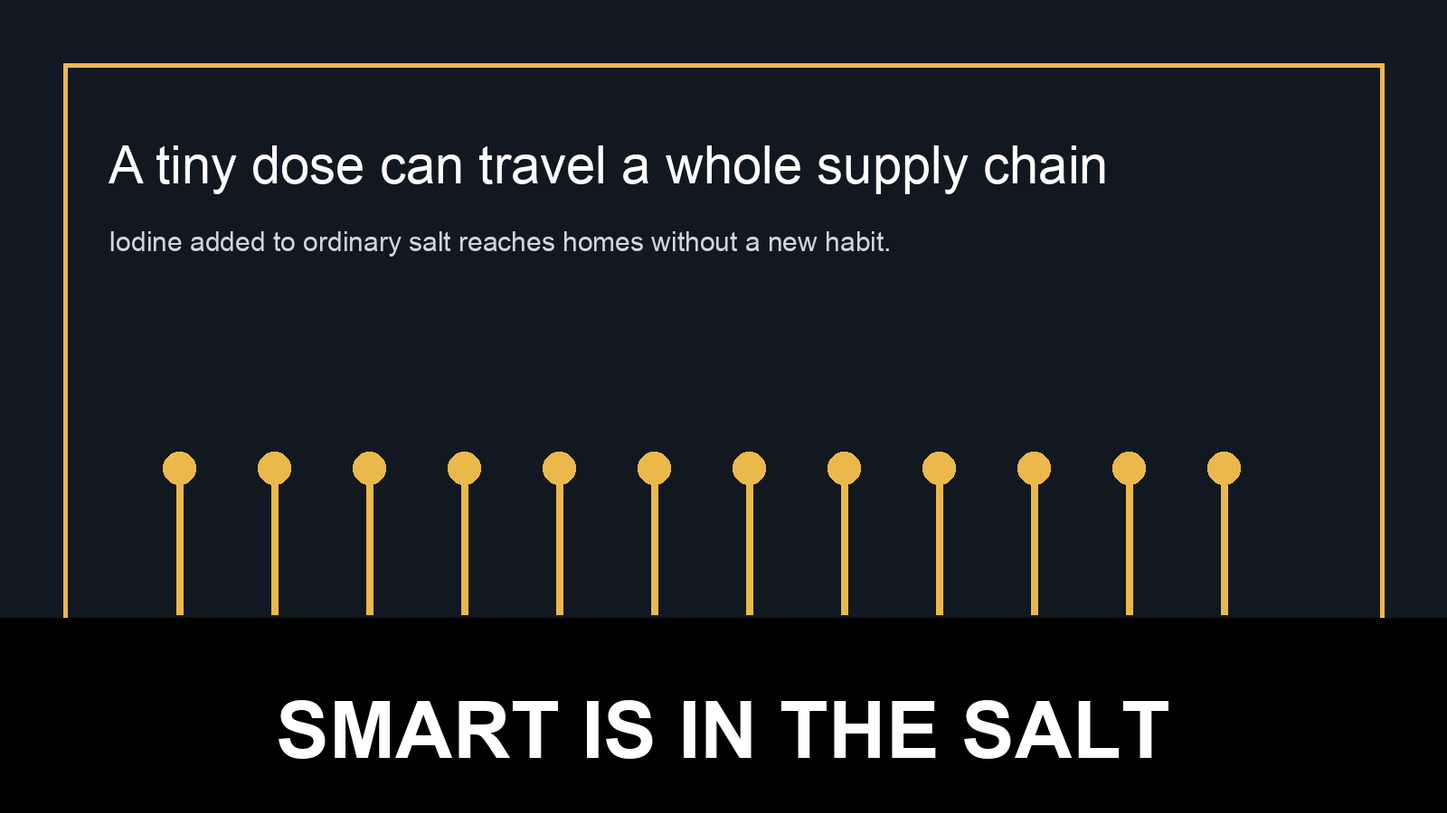
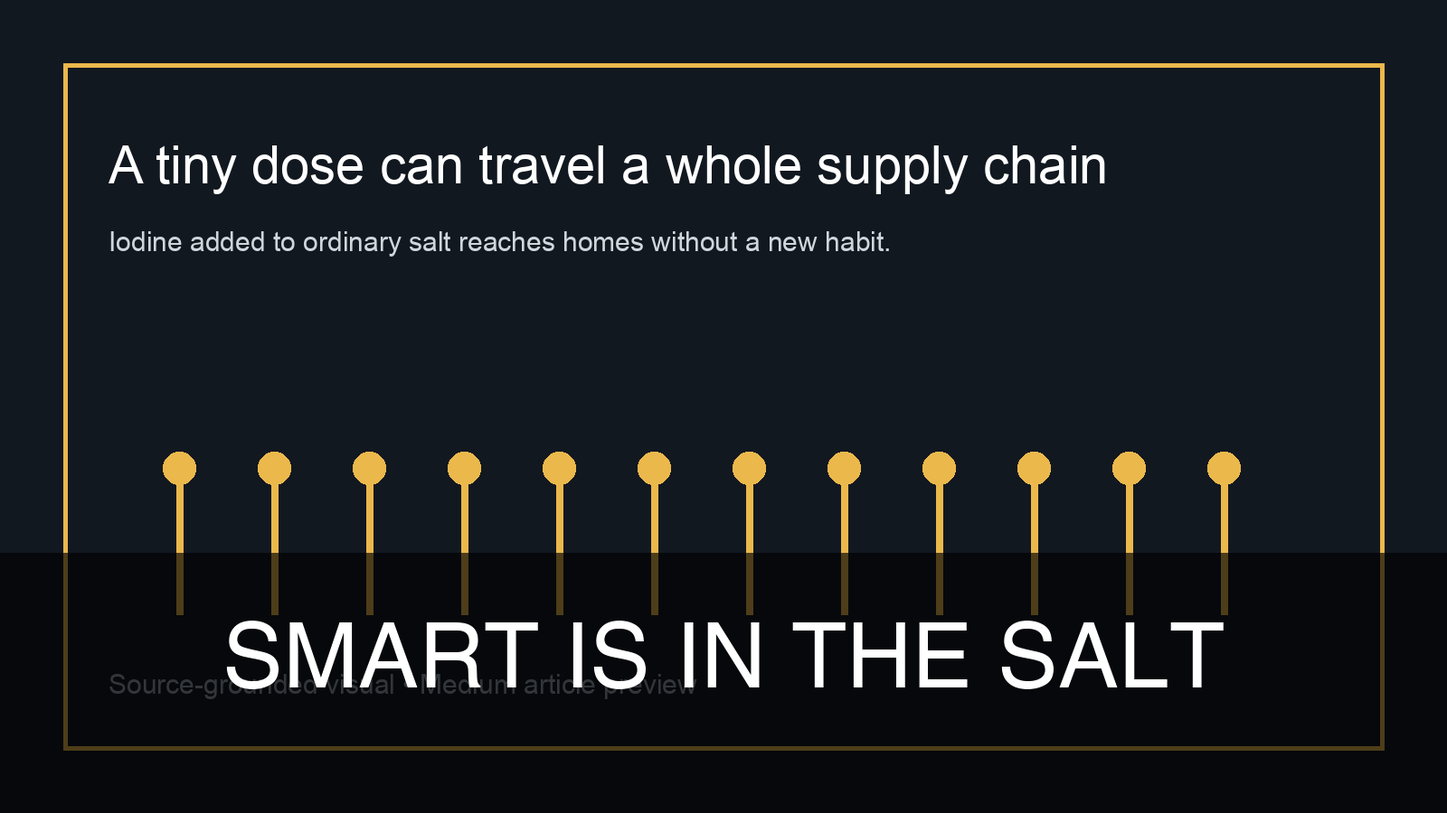
fix: complete 7-article audit fix wave — YouTube frames, wired hero overlays, real lists, inline citations

Changed region(s): [[0.0312, 0.6844, 0.9688, 0.9333], [0.8438, 0.6844, 0.875, 0.7467]]

diff --git a/nextjs/public/medium/youtube-europe-fusion-reactor-bpuakw1dyek/index.html b/nextjs/public/medium/youtube-europe-fusion-reactor-bpuakw1dyek/index.html
@@ -5,9 +5,9 @@
   <meta name="viewport" content="width=device-width, initial-scale=1">
   <meta name="robots" content="index,follow">
   <meta name="article:status" content="preview">
[2 lines of base64/hex data omitted]
   <link rel="canonical" href="https://www.maxpetrusenko.com/medium/youtube-europe-fusion-reactor-bpuakw1dyek/">
-  <title>The Oil Crisis That Never Arrived</title>
+  <title>Europe’s Fusion Bet Is Finally Becoming an Engineering Problem</title>
   <style>
     :root {
       color-scheme: light;
@@ -79,47 +79,86 @@
 </head>
 <body>
   <main>
-<h1>The Oil Crisis That Never Arrived</h1>
-<p><em>The world prepared for a historic supply shock. The missing piece was sitting inside the biggest oil-importing country on Earth.</em></p>
-<blockquote><p>A viral video says China secretly cut its oil imports in half and single-handedly saved the world from an Iran-war oil shock. The mechanism is real; the tidy hero story is not. Here&#39;s what the primary sources actually support, what stays unproven, and why the biggest buyer&#39;s quiet moves matter more than any headline.</p></blockquote>
-<figure><img src="/medium/youtube-europe-fusion-reactor-bpuakw1dyek/assets/hero-overlay.jpg" alt="Oil tanker ACADIAN entering St. John&#39;s Harbor, Newfoundland. Photo: Wikimedia Commons, CC BY-SA 4.0."></figure>
-<p>At the start of the 2025 fighting around Iran, everyone had the same nightmare queued up. Close the Strait of Hormuz, and the world runs out of oil. Flights grounded. Cities dark. Gas tripling if you could buy any at all. The math looked airtight, and the <a href="https://www.eia.gov/todayinenergy/detail.php?id=61344" target="_blank" rel="noopener noreferrer">EIA&#39;s chokepoint analysis</a> explains why a single narrow waterway can scare an entire planet: a huge share of seaborne crude passes through it, so a credible threat to close it is a credible threat to everyone.</p>
-<p>The feared collapse did not arrive on that schedule.</p>
-<p>That&#39;s the part worth sitting with. The forecasts weren&#39;t stupid. <a href="https://www.eia.gov/todayinenergy/detail.php?id=61344" target="_blank" rel="noopener noreferrer">EIA&#39;s chokepoint analysis</a> both laid out how ugly a real closure would get, and the arithmetic held up. The world just didn&#39;t behave like the arithmetic. Prices twitched and settled. Airlines rerouted. Governments cracked open their emergency plans and the lights stayed on. A near miss still carries information, and dismissing it is how you sleepwalk into the next crisis.</p>
-<h2>The claim that went viral</h2>
-<p>Here&#39;s where the story gets a protagonist. A popular explainer video argued that one country quietly did the saving: China. The pitch is clean and satisfying — Beijing cut its oil imports roughly in half, absorbed the shock in secret, and rescued the global economy, including its chief rival, the United States, without ever saying a word about it.</p>
-<p>It&#39;s a great story. It might even be partly true. But &quot;China saved the world&quot; is a conclusion, not a receipt, and the primary sources I can actually stand on don&#39;t hand you that receipt. Nobody publishes a signed ledger of a secret. So let&#39;s separate the part you can verify from the part you have to take on faith.</p>
-<p>What&#39;s verifiable is the <em>shape</em> of the thing. China is the world&#39;s largest crude importer and, per the <a href="https://www.eia.gov/international/analysis/country/CHN" target="_blank" rel="noopener noreferrer">U.S. EIA&#39;s China profile</a>, it buys most of the oil it burns from abroad. A country that big, buying that much, doesn&#39;t need to announce anything to move a market. If it takes less, everyone else is fighting over fewer marginal cargoes. That is market mechanics. It is what happens when the biggest customer in the store puts something back on the shelf.</p>
-<figure><img src="/medium/youtube-europe-fusion-reactor-bpuakw1dyek/assets/body-frame-1.jpg" alt="A news explainer map shows the Strait of Hormuz and alternative oil infrastructure."></figure>
-<h2>Why a quiet buyer moves a loud market</h2>
-<p>Oil trades as one connected pool, so slack anywhere shows up as relief everywhere. When a big buyer eases off — using inventories, switching grades, delaying a cargo — it doesn&#39;t create new barrels. It removes bidders. <a href="https://www.eia.gov/international/analysis/country/CHN" target="_blank" rel="noopener noreferrer">the EIA&#39;s China profile</a> lays out why Beijing keeps the machinery to do exactly this: commercial stockpiles, state-linked trading muscle, long supplier relationships, and refineries built to swallow different crude grades. In a calm month that&#39;s expensive insurance. During a scare, it&#39;s a shock absorber nobody can photograph.</p>
-<p>This is the core of it. The dramatic intervention gets a press release. The quiet one gets a smaller import order and a tanker pointed somewhere else. The absence of a bidding war doesn&#39;t trend. So the most consequential move in the whole episode is also the hardest to see — which is exactly why it&#39;s so easy to narrate into a fairy tale.</p>
-<p>Somewhere right now, an analyst is squinting at satellite photos of steel domes in northern China, watching the lids on oil silos rise and fall to guess how much crude a secretive government is sitting on. That&#39;s a real job. It exists because the size of China&#39;s reserve is a state secret, and the best outsiders can do is count roofs from orbit. When your best data source is the shadow of a tank lid, you should hold your conclusions loosely. Anyone quoting you a precise &quot;barrels China saved&quot; number is selling confidence they don&#39;t have.</p>
-<h2>The part where a rival accidentally helps you</h2>
-<p>The satisfying irony writes itself: China and the United States are strategic rivals, and China&#39;s restraint would have cushioned the American economy too. But you don&#39;t need a conspiracy or a favor for that. A country protecting its own factories and refineries stabilizes a market its competitor happens to share. Interdependence mostly works through this unglamorous plumbing — inventories, contracts, substitution, timing — not through grand gestures.</p>
-<p>The U.S. isn&#39;t defenseless in this either. It keeps its own buffer in the <a href="https://www.energy.gov/ceser/strategic-petroleum-reserve" target="_blank" rel="noopener noreferrer">Strategic Petroleum Reserve</a>, built for precisely this class of emergency, and other big economies hold stocks of their own. Coordinated releases and reserve draws are part of how governments manage a disruption. The early forecasts flattened all of that into one scary headline number, measuring the hole at the chokepoint without modeling the dozen boring decisions that follow it: who draws down, who reroutes, who blends, who decides this month&#39;s cargo can wait.</p>
-<h2>Where the hero story breaks</h2>
-<p>If you want the version that survives scrutiny, it&#39;s this: the system had more slack than the first-day panic could see, and China — as the largest single buyer — was one unusually large part of that slack. That&#39;s a real claim. &quot;China saved the world&quot; is that claim dressed up as certainty.</p>
-<p>Three things keep the cape from fitting.</p>
-<p>First, some of the room to maneuver runs through sanctioned and discounted supply. The <a href="https://www.eia.gov/international/analysis/country/IRAN" target="_blank" rel="noopener noreferrer">EIA&#39;s Iran profile</a> describes a shadow market that is, by design, hard to measure. You can&#39;t cleanly separate state direction from a trader chasing a discount, and you certainly can&#39;t audit it to the barrel.</p>
-<p>Second, resilience has a distribution problem. A manageable global average price can hide real pain — poorer importers, truckers, airlines, and households hit by local spikes and shortages. &quot;The oil shock didn&#39;t happen&quot; is too generous if it means nobody got hurt. Plenty of people did.</p>
-<p>Third, buffers buy time, and time runs out. Spare capacity is finite. If the fighting drags on, terminals fail, or insurers walk away from a route, the slack runs out. A model that only predicts the opening deficit will scream collapse too early. A model that assumes China will always cushion the market will get you killed the one time it doesn&#39;t.</p>
-<figure><img src="/medium/youtube-europe-fusion-reactor-bpuakw1dyek/assets/body-frame-2.jpg" alt="An explainer board shows pipelines and stockpiles offsetting a supply disruption."></figure>
-<h2>What to actually watch next time</h2>
-<p>When the next energy panic goes viral, ignore the first scary number and track four boring ones instead:</p>
+<h1>Europe’s Fusion Bet Is Finally Becoming an Engineering Problem</h1>
+<p><em>The dream of commercial fusion has survived decades of impossible promises. Europe’s new machine matters because it shifts the question from whether a star can be made on Earth to whether that star can be made repeatably, maintained, and connected to a grid.</em></p>
+<blockquote><p>Commercial fusion requires more than a plasma hotter than the Sun. It needs stable confinement, heat-resistant materials, tritium breeding, remote maintenance, reliable magnets, and an economically useful power cycle. Europe’s strategy combines stellarator research with high-temperature superconducting magnets, aiming to make a reactor easier to operate continuously rather than merely impressive for a short experiment.</p></blockquote>
+<figure><img src="/medium/youtube-europe-fusion-reactor-bpuakw1dyek/images/hero-overlay.jpg" alt="Fusion power — frame from the source video"></figure>
+<p>Fusion has trained the public to distrust its own headlines. Every announcement sounds like a finish line, then the finish line moves. A reactor reaches a temperature record, a plasma lasts longer, a magnet becomes stronger, and the headline arrives before the engineering has had time to answer the boring questions: Can the machine survive? Can it be serviced? Can it produce electricity outside a laboratory demonstration?</p>
+<p>Europe’s answer is being assembled around the tokamak, the doughnut-shaped reactor used by ITER and the private company Proxima Fusion. The physics is familiar. The industrial path is the part that could change.</p>
+<h2>The machine is trying to hold a star still</h2>
+<p>Inside a fusion reactor, hydrogen isotopes are heated until their electrons separate from their nuclei. The resulting plasma must remain hot and dense long enough for atomic nuclei to fuse. Fusion releases energy because the products weigh slightly less than the fuel, and that missing mass becomes energy.</p>
+<p>On Earth, the simplest comparison is the Sun, although the comparison can mislead. The Sun uses immense gravity to confine a relatively cool plasma. A terrestrial reactor has to replace gravity with magnetic fields and operate at temperatures of roughly 150 million degrees Celsius. Any material touching the plasma would fail immediately.</p>
+<p>That constraint creates the tokamak’s signature shape. Magnets wrap around the chamber and force the plasma into a torus. The design has produced the field’s strongest results, including the record 59 megajoules of fusion energy from the Joint European Torus in 2022, according to <a href="https://euro-fusion.org/news/2022/jet-tokamak-sets-new-fusion-energy-record/" target="_blank" rel="noopener noreferrer">EUROfusion</a>. The record was important, but it lasted only about five seconds.</p>
+<p>Five seconds can prove physics. A power station needs years of maintenance schedules.</p>
+<figure><img src="/medium/youtube-europe-fusion-reactor-bpuakw1dyek/images/body-frame-1.jpg" alt="Stellarator magnetic coils in a technical frame from the source video"></figure>
+<h2>Europe’s engineering alternative</h2>
+<p>The stellarator takes a different route. Its magnetic coils twist through three dimensions, creating a field that can confine plasma without relying on a large current flowing inside the plasma itself. That difference sounds like a detail until a reactor experiences a disruption.</p>
+<p>Tokamaks can suffer sudden losses of confinement. A disruption dumps energy into the chamber walls and can damage components. Stellarators are harder to design and manufacture because their coils are complex, but they are naturally suited to steady-state operation.</p>
+<p>Germany’s Wendelstein 7-X is the most important modern demonstration. Operated by the Max Planck Institute for Plasma Physics, it has tested whether a stellarator can maintain the long, controlled plasma pulses a commercial plant would need. In 2023, W7-X set a world record for fusion product in a long-duration discharge, sustaining high-performance plasma for 8 minutes with 1.3 gigajoules of energy turnover.</p>
+<p>The lesson is less cinematic than “fusion is solved,” which is exactly why it matters. W7-X is a research machine; electricity generation remains a future engineering step. It demonstrates that a design once dismissed as too complicated can behave like a serious power-plant candidate.</p>
+<h2>Why the impossible part is not the temperature</h2>
+<p>The public fixates on heat. Engineers worry about what the neutrons do afterward.</p>
+<p>Deuterium-tritium fusion produces fast neutrons that leave the magnetic bottle and strike the surrounding blanket. Those neutrons damage metals, activate components, and carry the energy that a future plant must convert into heat. The blanket also needs to breed new tritium from lithium because tritium is scarce in nature.</p>
+<p>That creates a chain of dependencies:</p>
 <ol>
-<li><strong>Inventory days, not inventory headlines.</strong> How many days of the <em>relevant</em> crude and refined product actually exist, and where do those barrels physically sit? The <a href="https://www.energy.gov/ceser/strategic-petroleum-reserve" target="_blank" rel="noopener noreferrer">DOE Strategic Petroleum Reserve</a> and the EIA&#39;s country data matter more than the loudest tweet.</li>
-<li><strong>Substitute routes and grades.</strong> A barrel isn&#39;t interchangeable in the abstract. Pipelines, refinery configuration, shipping insurance, and sulfur content decide whether &quot;replacement&quot; oil actually runs.</li>
-<li><strong>The biggest buyer&#39;s behavior.</strong> A small shift in Chinese import timing, sketched out in the <a href="https://www.eia.gov/international/analysis/country/CHN" target="_blank" rel="noopener noreferrer">EIA China profile</a>, can move more than a loud promise from a producer.</li>
-<li><strong>Duration.</strong> A two-week scare and a six-month blockade are different animals. Buffers buy time; they don&#39;t repeal geography.</li>
+<li>The plasma must remain stable.</li>
+<li>The first wall must tolerate neutron damage and heat flux.</li>
+<li>The blanket must remove heat and breed tritium.</li>
+<li>Robots must replace activated components.</li>
+<li>The plant must turn heat into electricity with acceptable losses.</li>
 </ol>
-<p>The lesson isn&#39;t that geopolitics went soft. It&#39;s that resilience usually arrives through moves too dull to make the edit: a refinery postpones a purchase, a state trader releases stock, a ship changes heading, a government swallows an awkward cargo. The story looked like it was about a narrow waterway. It was really about who had room to move — and how little of that room ever makes it into the narration.</p>
-<p>China had room. Whether it chose to spend it to save you, to prove a point, or just to protect its own factories, nobody outside a few rooms in Beijing can tell you with confidence. So don&#39;t let anyone try.</p>
-<p>For a useful next read, try <a href="https://medium.com/@max.petrusenko/google-wants-the-moment-before-you-search-f862caa01415" target="_blank" rel="noopener noreferrer">Google Wants the Moment Before You Search</a>, another piece about how hidden systems shape visible outcomes.</p>
+<p>A reactor can succeed at the first step and still fail as a power station. The gap between plasma performance and plant performance is where most fusion timelines become fragile.</p>
+<h2>The magnet changes the industrial argument</h2>
+<p>Proxima Fusion’s approach builds on stellarator work at the Max Planck Institute and uses high-temperature superconducting magnets as a route toward a compact power plant. High-temperature superconductors can carry large currents with less cooling infrastructure than older low-temperature systems. The coils leave the reactor difficult to build while offering a path toward manufacturable geometry and a smaller plant.</p>
+<p>The distinction matters. A research stellarator can be built as a one-off scientific instrument. A commercial stellarator must be assembled from repeatable components, opened for maintenance, shielded from radiation, and operated by people who did not design every bolt.</p>
+<p><a href="https://www.proximafusion.com/" target="_blank" rel="noopener noreferrer">Proxima Fusion’s</a> published plans describe a demonstration plant called Alpha and a later commercial concept called Stellaris. Those remain designs and targets rather than operating reactors. The credible claim is narrower: European research has created a technical base from which a private company can attempt a power-plant design. The claim that commercial fusion is already imminent still outruns the evidence.</p>
+<h2>The five-second problem becomes a materials problem</h2>
+<p>The JET record showed that fusion energy can be produced with a deuterium-tritium plasma. <a href="https://www.iter.org/sci/Fusion" target="_blank" rel="noopener noreferrer">ITER</a> is intended to test a much larger gain, with a target of 500 megawatts of fusion power from 50 megawatts of heating power during experimental operation. ITER will not sell electricity to the grid.</p>
+<p>That boundary is easy to miss. Q equals 10 is a physics milestone; a commercial plant requires a business model. A grid plant must provide electricity after magnets, pumps, heating systems, cryogenics, control systems, tritium handling, and maintenance are counted. Its net electric output must survive outages and component replacement.</p>
+<p>This is where optimistic stories usually compress three separate achievements into one:</p>
+<ul>
+<li><strong>Scientific gain:</strong> the plasma releases more fusion energy than the external heating provides.</li>
+<li><strong>Engineering gain:</strong> the machine can protect its materials and systems during repeated operation.</li>
+<li><strong>Commercial gain:</strong> the plant produces dependable electricity at a competitive cost.</li>
+</ul>
+<p>Europe is approaching the second category. That is progress, but it is a different kind of progress from a record plasma.</p>
+<h2>What happens when the machine fails</h2>
+<p>A fusion reactor cannot be judged only by its best pulse. Its maintenance story matters as much as its confinement story.</p>
+<p>The interior will become radioactive. Humans will not enter the vessel after operation. Remote handling systems must remove blankets, divertors, diagnostic equipment, and damaged panels. Each intervention adds downtime, and every awkward component becomes a potential limit on the plant’s capacity factor.</p>
+<p>The stellarator’s promise is therefore double-edged. Avoiding tokamak disruptions could simplify operation, yet the three-dimensional chamber and coil system can make manufacturing and maintenance more demanding. A design that wins on plasma stability may lose on access. A compact magnet may reduce size while increasing radiation and heat loads in critical areas.</p>
+<p>The right test is a service plan with a clock attached. How many days to replace a divertor? How many remote joints can fail before the plant stops? How much tritium inventory is required? Until those answers become measured rather than modeled, the reactor remains an engineering proposal.</p>
+<figure><img src="/medium/youtube-europe-fusion-reactor-bpuakw1dyek/images/body-frame-2.jpg" alt="Fusion reactor machinery in a technical frame from the source video"></figure>
+<figure><img src="/medium/youtube-europe-fusion-reactor-bpuakw1dyek/images/body-frame-3.jpg" alt="Fusion engineering detail in a technical frame from the source video"></figure>
+<h2>The claim worth watching</h2>
+<p>Europe does not need to prove that fusion is a miracle. It needs to prove that a fusion plant can become ordinary equipment.</p>
+<p>That means watching a short list of evidence rather than every dramatic announcement:</p>
+<ul>
+<li>long-duration stellarator plasmas with controlled heat exhaust;</li>
+<li>materials that survive representative neutron exposure;</li>
+<li>demonstrated tritium breeding and recovery;</li>
+<li>high-temperature superconducting magnets tested at reactor-relevant stress;</li>
+<li>remote maintenance trials with realistic component masses;</li>
+<li>a power-cycle design that includes the plant’s own electrical consumption.</li>
+</ul>
+<p>These milestones are less shareable than a photograph beside a glowing machine. They are also the milestones that determine whether the machine belongs in an energy system.</p>
+<h2>The twist is operational</h2>
+<p>Fusion has spent decades being described as a single breakthrough away. Europe’s new bet is more interesting because it exposes the stack underneath the breakthrough. The plasma is only the center of the machine. Around it sit magnets, blankets, robots, materials, fuel systems, turbines, schedules, and budgets.</p>
+<p>The stellarator may eventually win because it is better suited to a steady operating rhythm. Or its manufacturing and maintenance burden may prove too high. Both outcomes would teach the field something useful. The mistake is treating a promising reactor geometry as though it were already a finished power plant.</p>
+<p>The impossible reactor becomes believable at the moment the argument gets less romantic. A star on Earth is a spectacular physics experiment. A commercial reactor is a machine that has to be opened, repaired, refueled, and started again on Tuesday morning. Europe’s real test begins there.</p>
+<p>For a useful next read, try <a href="https://www.maxpetrusenko.com/medium/youtube-seven-dimensions-explained-gpfxmhwv8w/" target="_blank" rel="noopener noreferrer">Seven Dimensions You Can Be Completely Right About</a>, another piece about how complicated systems hide their real failure modes.</p>
 <h2>Sources</h2>
-<p>This article draws on the source video transcript plus primary and independent research from the U.S. Energy Information Administration (<a href="https://www.eia.gov/todayinenergy/detail.php?id=61344" target="_blank" rel="noopener noreferrer">Strait of Hormuz</a>, <a href="https://www.eia.gov/international/analysis/country/CHN" target="_blank" rel="noopener noreferrer">China</a>, <a href="https://www.eia.gov/international/analysis/country/IRAN" target="_blank" rel="noopener noreferrer">Iran</a>), the U.S. Department of Energy (<a href="https://www.energy.gov/ceser/strategic-petroleum-reserve" target="_blank" rel="noopener noreferrer">Strategic Petroleum Reserve</a>), the EIA and the U.S. Department of Energy. Specific &quot;barrels saved&quot; figures attributed to the source video are presented as that video&#39;s claims, not as verified primary data.</p>
+<ul>
+<li><a href="https://www.iter.org/sci/Fusion" target="_blank" rel="noopener noreferrer">ITER, “What is fusion?”</a></li>
+<li><a href="https://euro-fusion.org/news/2022/jet-tokamak-sets-new-fusion-energy-record/" target="_blank" rel="noopener noreferrer">EUROfusion, JET produces 59 megajoules</a></li>
+<li><a href="https://www.ipp.mpg.de/w7x" target="_blank" rel="noopener noreferrer">Max Planck Institute, Wendelstein 7-X</a></li>
+<li><a href="https://www.nature.com/articles/d41586-023-03943-3" target="_blank" rel="noopener noreferrer">Nature, Wendelstein 7-X long-duration record</a></li>
+<li><a href="https://www.iaea.org/topics/fusion-energy" target="_blank" rel="noopener noreferrer">IAEA, Fusion energy</a></li>
+<li><a href="https://science.osti.gov/fes" target="_blank" rel="noopener noreferrer">US DOE, Fusion Energy Sciences</a></li>
+<li><a href="https://www.proximafusion.com/" target="_blank" rel="noopener noreferrer">Proxima Fusion</a></li>
+<li><a href="https://www.iter.org/sci/BeyondITER" target="_blank" rel="noopener noreferrer">ITER, Tritium breeding</a></li>
+</ul>
 <h2>About the author</h2>
-<p>Max Petrusenko writes about AI, technology, and the systems that shape everyday decisions. Read more at <a href="https://www.maxpetrusenko.com/" target="_blank" rel="noopener noreferrer">maxpetrusenko.com</a> or <a href="https://medium.com/@max.petrusenko" target="_blank" rel="noopener noreferrer">Medium</a>.</p>
+<p>Max Petrusenko writes about technology, AI, and the human consequences of complicated systems. Read more at <a href="https://maxpetrusenko.com/" target="_blank" rel="noopener noreferrer">maxpetrusenko.com</a> and <a href="https://medium.com/@max.petrusenko" target="_blank" rel="noopener noreferrer">Medium</a>.</p>
   </main>
 </body>
 </html>

diff --git a/nextjs/public/medium/youtube-easiest-way-make-world-smarter-xrcwwzxj8gk/index.html b/nextjs/public/medium/youtube-easiest-way-make-world-smarter-xrcwwzxj8gk/index.html
@@ -5,7 +5,7 @@
   <meta name="viewport" content="width=device-width, initial-scale=1">
   <meta name="robots" content="index,follow">
   <meta name="article:status" content="preview">
[2 lines of base64/hex data omitted]
   <link rel="canonical" href="https://www.maxpetrusenko.com/medium/youtube-easiest-way-make-world-smarter-xrcwwzxj8gk/">
   <title>The Easiest Way to Make the World Smarter Was Already in Your Kitchen</title>
   <style>
@@ -100,7 +100,8 @@
 <p>In 1918, physician Otto Bayard tested the idea in a remote village affected by goiter, as documented in the historical record summarized by <a href="https://pubmed.ncbi.nlm.nih.gov/23319727/" target="_blank" rel="noopener noreferrer">Bürgi, Supersaxo, and Selz</a>. He mixed potassium iodide into salt and gave it to five families. The winter train stopped running before he could return. When he came back in spring, no one had been harmed and the families&#39; goiters had disappeared.</p>
 <p>Bayard expanded the trial to more than 1,000 people over six months. The result held. In 1922, Hunziker, Bayard, and Swiss health leaders formed a commission to implement iodized salt nationally. Within a year, iodized salt was sold across more than half the country, accompanied by local education rather than a complicated medical bureaucracy.</p>
 <p>The intervention succeeded because it attached a biological requirement to a habit that already existed.</p>
-<figure><img src="/medium/youtube-easiest-way-make-world-smarter-xrcwwzxj8gk/images/iodine-dose-visual.png" alt="A small dose, delivered at scale"></figure>
+<figure><img src="/medium/youtube-easiest-way-make-world-smarter-xrcwwzxj8gk/images/body-frame-1.jpg" alt="A technical frame from the Rabbit Hole video showing the iodized-salt story"></figure>
+<figure><img src="/medium/youtube-easiest-way-make-world-smarter-xrcwwzxj8gk/images/body-frame-2.jpg" alt="A second technical frame from the Rabbit Hole video"></figure>
 <h2>Michigan had a military problem before it had a nutrition policy</h2>
 <p>The United States arrived at the same solution through a different pressure.</p>
 <p>In 1917, more than 20,000 men in northern Michigan were disqualified from military service because of goiters. School surveys found goiter rates between 70 and 100 percent in some communities, according to the historical account in the <a href="https://ods.od.nih.gov/factsheets/Iodine-HealthProfessional/" target="_blank" rel="noopener noreferrer">NIH Office of Dietary Supplements review</a>. The region became known as the goiter belt.</p>
